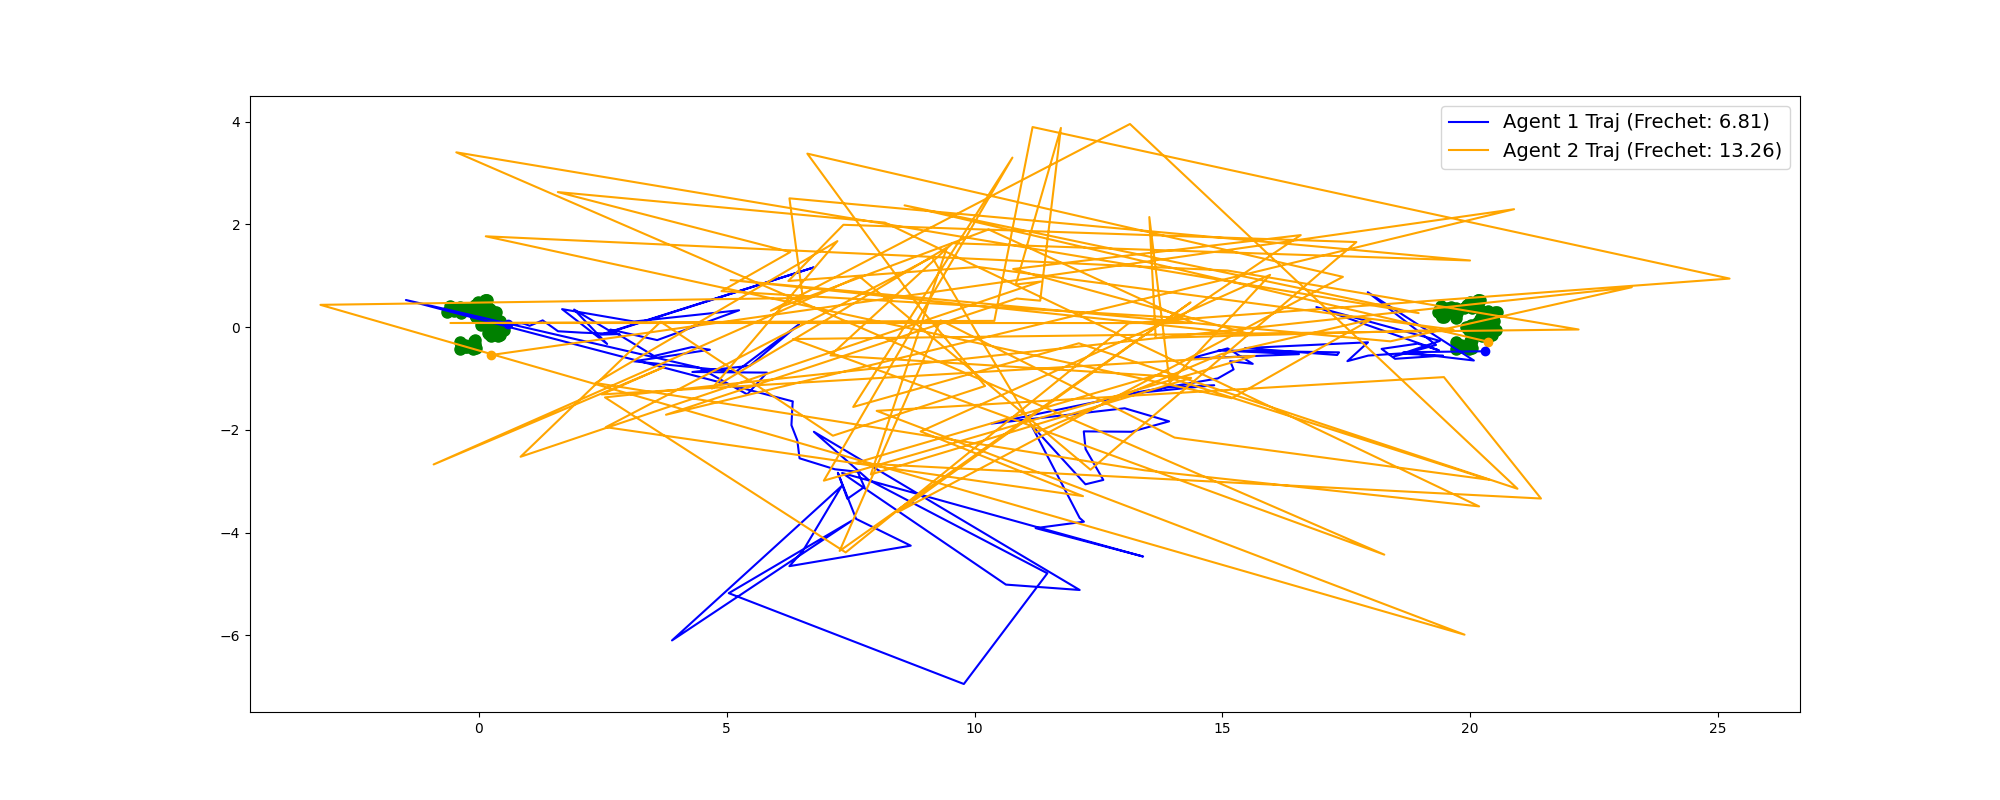
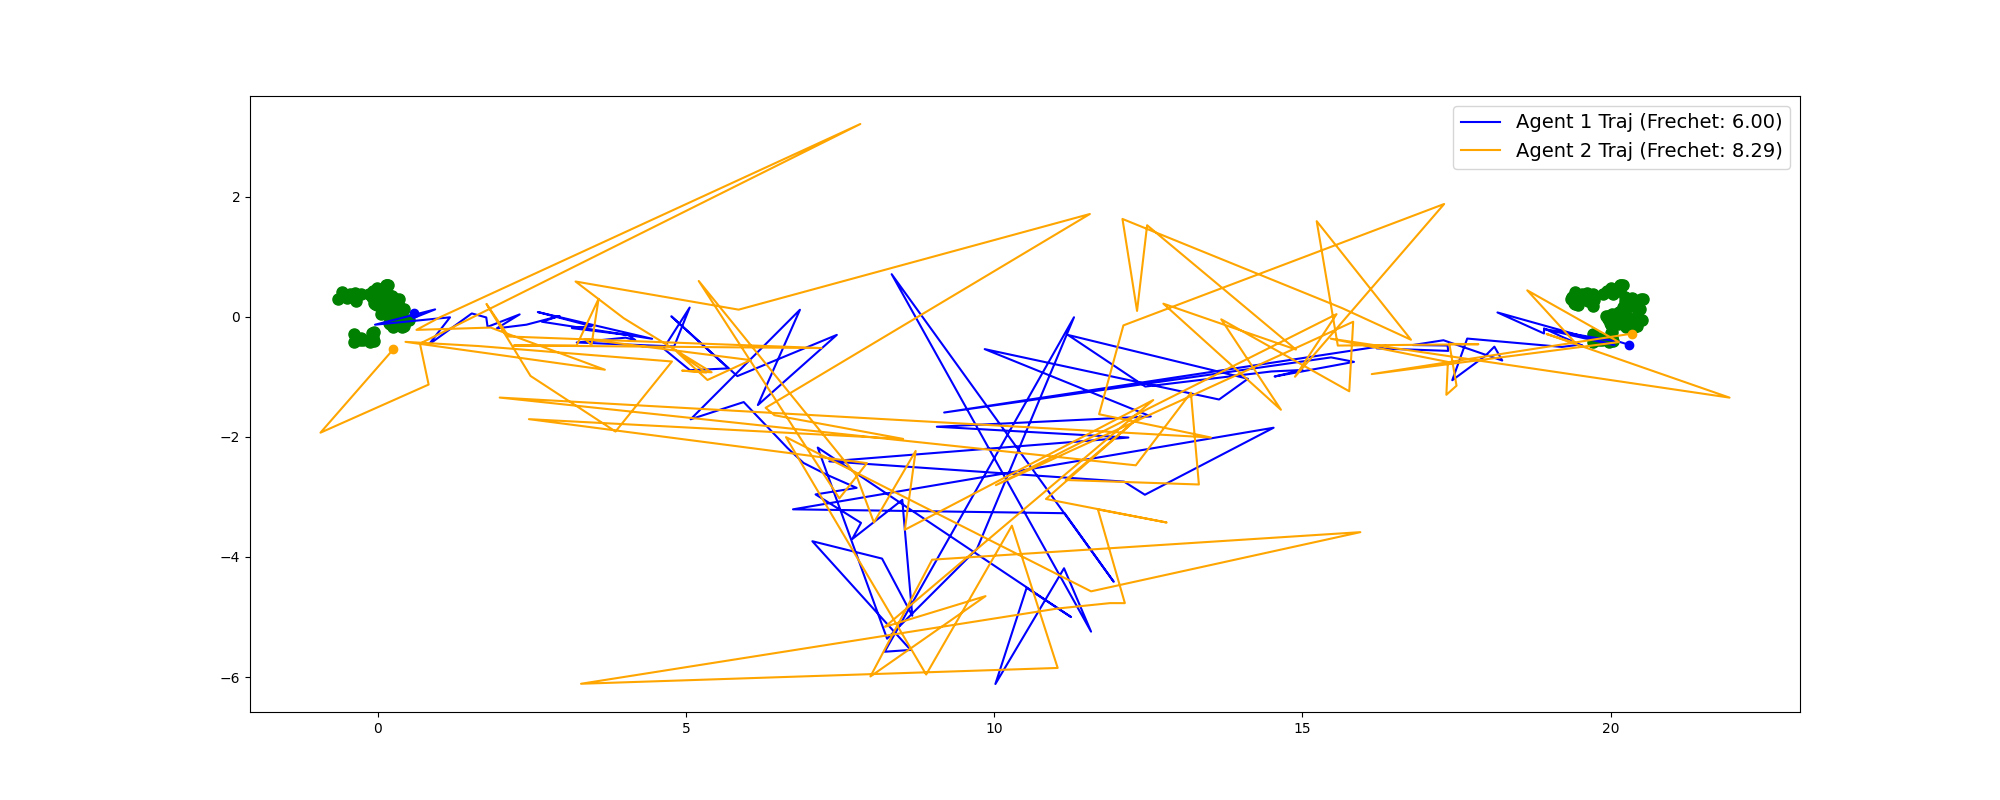
finished ctde training and generated samples

diff --git a/ctde_conditional/conditional_training.py b/ctde_conditional/conditional_training.py
@@ -204,8 +204,8 @@ action_cond_ode2 = Conditional_ODE(env, attr_dim2, sigma_data2, device=device, N
 action_cond_ode1.load(extra="conditional1")
 action_cond_ode2.load(extra="conditional2")
 
-import pdb
-breakpoint()
+# import pdb
+# breakpoint()
 noise_std = 0.05
 noise = np.ones(np.shape(obs_temp1))
 obs_temp1 = obs_temp1 + noise_std * noise
@@ -222,8 +222,8 @@ ref_agent1 = ref1[:, :]
 ref_agent2 = ref2[:, :]
 
 for i in range(10):
-    attr_t1 = attr_test1[i*10].unsqueeze(0)
-    attr_t2 = attr_test2[i*10].unsqueeze(0)
+    attr_t1 = attr_test1[i*4].unsqueeze(0)
+    attr_t2 = attr_test2[i*4].unsqueeze(0)
     attr_n1 = attr_t1.cpu().detach().numpy()[0]
     attr_n2 = attr_t2.cpu().detach().numpy()[0]
 
